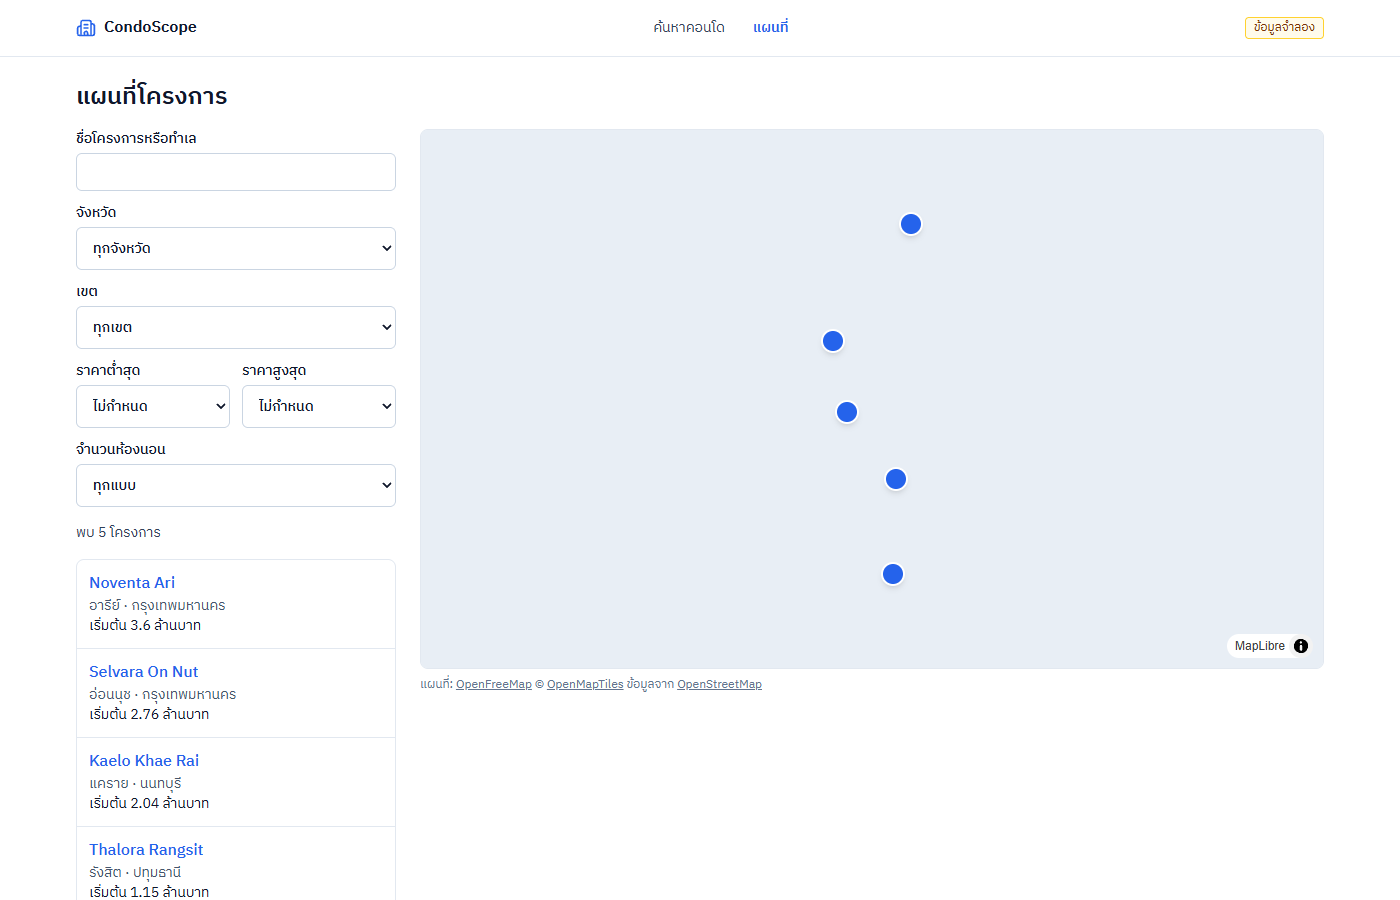
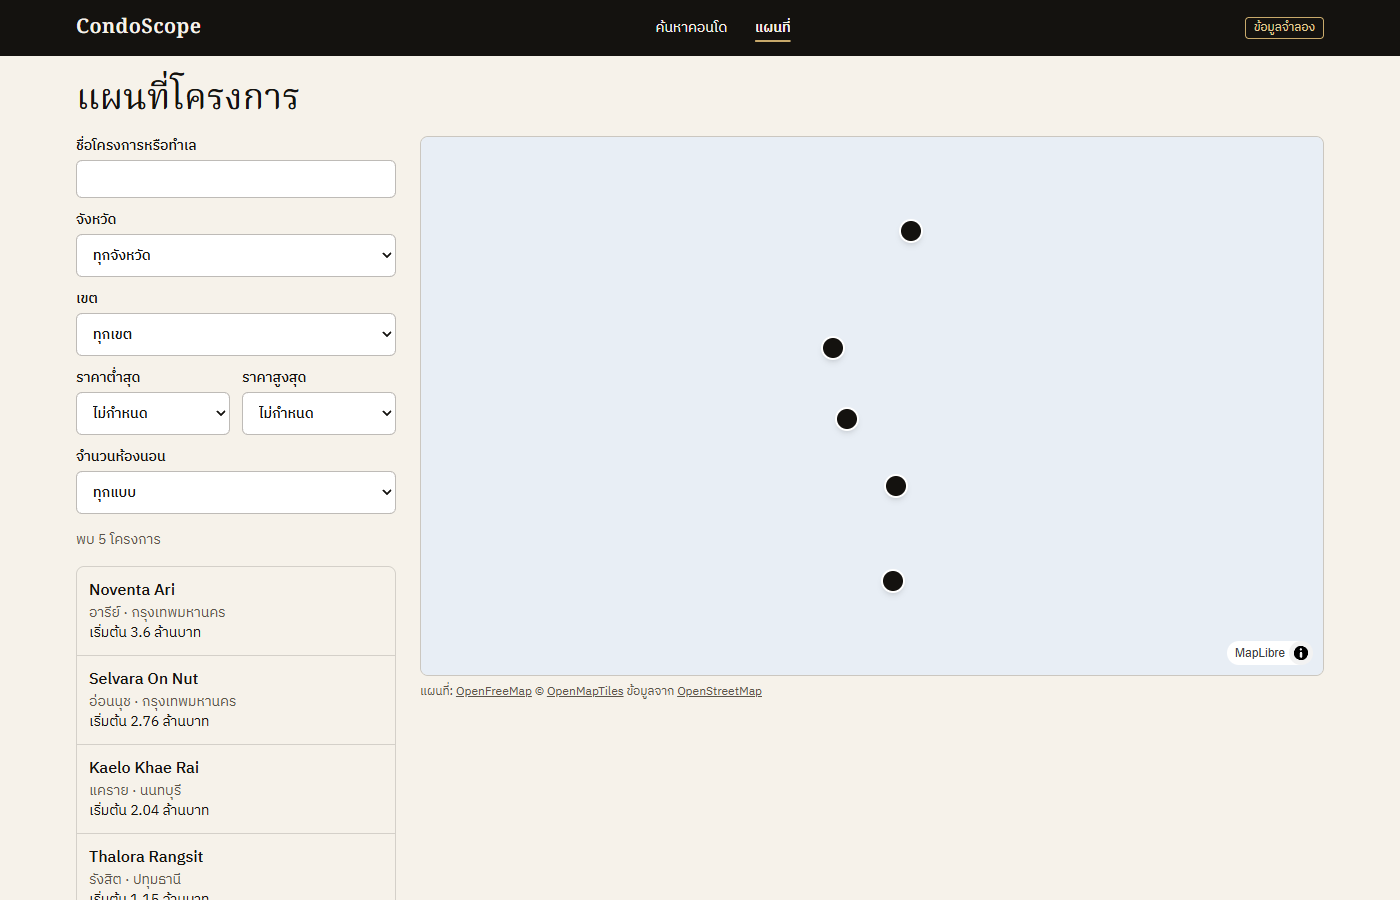
docs: status of plan 5 and the CI e2e work; fresh screenshots of the new look

diff --git a/apps/web/e2e/screenshots.spec.ts b/apps/web/e2e/screenshots.spec.ts
@@ -17,6 +17,7 @@ test('ภาพหน้าจอสำหรับ README (6 หน้า + ม
   await page.goto('');
   await expect(page.getByRole('heading', { level: 1 })).toBeVisible();
   await page.waitForLoadState('networkidle');
+  await page.waitForTimeout(5500); // the hero image settles for 5 s
   await shot(page, 'home');
 
   await page.goto('#/search');
@@ -27,7 +28,7 @@ test('ภาพหน้าจอสำหรับ README (6 หน้า + ม
   await page.goto('#/project/1');
   await expect(page.getByRole('heading', { level: 1 })).toBeVisible();
   await page.waitForLoadState('networkidle');
-  await page.waitForTimeout(800); // image fade-in
+  await page.waitForTimeout(5500); // the hero image settles for 5 s
   await shot(page, 'project');
 
   await page.goto('#/map');

diff --git a/CLAUDE.md b/CLAUDE.md
@@ -57,10 +57,13 @@
   - ยังไม่เริ่ม (ห้ามเริ่มเองจนกว่าผู้ใช้อนุญาต): งานเสริมประเภทห้องใหม่ (ด้านบน) และรอบ UX/UI ครั้งถัดไปหลังได้ผล QA จริง (Task 8 ของแผน 4)
 
 - ✅ **แผน 4 merge เข้า `main` แล้ว (PR #4, 2026-11-11)**
-- ⚠ **CI e2e บน `main` ล้มเป็นพักๆ หลัง merge PR #3 และ #4** (ขั้น "เปิดหน้าห้อง `/unit/:id`" รอ h1 ไม่เจอใน 15 วินาที; e2e รันเฉพาะบน `main`/มือ จึงไม่เคยเห็นบน branch) · วันที่ 2026-11-12 รัน `workflow_dispatch` บน `fix/ci-e2e` ผ่าน 41/41 โค้ดเดียวกัน = ไม่แน่นอน ยังไม่รู้สาเหตุ · **PR #5 (`fix/ci-e2e`, ยังไม่ merge)** เพิ่ม trace/screenshot ของ test ที่ล้มเป็น artifact `e2e-failures` (และลงทะเบียน `actions/upload-artifact@v7` ใน `repo.test.ts`) และสั่งรันมืออีก 2 รอบ (run 43069143817, 43069151665) · ถ้าล้ม: โหลด artifact ดู trace ว่า `/api/units/…` ช้าหรือ URL เปลี่ยนตอนไหน แล้วแก้ที่ต้นเหตุ ห้ามแค่เพิ่ม timeout/skip
-- 🚧 **แผน 5 (หน้าตาคอนโดหรู) ค้างบน branch `feat/plan-5`** (`docs/plans/2026-11-11-plan-5-luxury-look.md`; ผู้ใช้อนุมัติ 2026-11-11: ใช้สี/ฟอนต์ตามที่เสนอ + prompt ภาพต้องห้ามตึกเหมือนจริง/โลโก้/ตัวหนังสือ/คนเห็นหน้า)
-  - ทำแล้ว: Task 1 (token สี + ฟอนต์ Noto Serif Thai + `theme.test.ts`), Task 2 (Navbar/Footer หมึก), Task 3 (`useReveal`), Task 4 ส่วนใหญ่ (`HeroImage`, Hero เต็มจอ + แถบค้นหา + `<details>` ตัวกรองเพิ่มเติม, HomePage, test หน้าแรก, e2e จอ 390/320 และภาพ Hero โหลดไม่ได้) · ภาพใหม่ 6 ไฟล์แปลงแล้ว: `public/images/projects/<slug>-hero.webp` (1376 กว้าง ไม่ขยาย) + `-hero-sm.webp` (960) และ `public/images/home-hero.webp`/`-sm.webp` (ยังไม่ได้ใช้ใน Hero: ตอนนี้ Hero ใช้ภาพโครงการแนะนำ ให้ตัดสินใจว่าจะใช้ `home-hero` แทนไหม)
-  - ⚠ **ยังไม่เสร็จ/ยังแก้ไม่ได้:** e2e axe (`e2e/journeys.spec.ts:103`) ล้ม 3 หน้า `#/project/1`, `#/unit/1`, `#/map` หลังเปลี่ยนสี (ยังไม่ได้ดูสาเหตุ; สงสัยคลาสสีเดิม blue/slate/amber ในหน้าเหล่านั้นบนพื้นงาช้าง ซึ่ง Task 5–7 จะแก้อยู่แล้ว) · ยังไม่ได้รัน e2e รอบเต็มและ `check:bundles` หลัง Task 4 เสร็จ (build ผ่านก่อนหน้า) · **ยังไม่ทำ Task 5–9** (การ์ด/ค้นหา, หน้าโครงการ, หน้าห้อง, Explorer เข้าชุด, ตรวจรวม/เอกสาร) และ Task 10 ส่วนถ่ายภาพหน้าจอ · ห้ามเปิด PR จนกว่าครบและ e2e ผ่าน (ผู้ใช้สั่ง push + เปิด PR ด้วย gh ห้าม merge)
+- ⚠ **CI e2e บน `main` ล้ม (ยังไม่ได้ยืนยันว่าแก้ได้)** — PR #5 merge แล้ว (เพิ่ม artifact `e2e-failures`) แต่ main ยังล้มอีก (run 43275955411: explorer-a11y:32, explorer:80, explorer:169, journeys:11) · **PR #6 (`fix/e2e-slow-frames`, เปิดอยู่ ยังไม่ merge, ห้าม merge เอง)** ให้ CI รัน e2e ใน PR ด้วย (`ci.yml`: `github.event_name != 'push' || main`) + helper `untilResponsive` ใน e2e + แก้ที่แอป
+  - หลักฐานจาก trace: หลังกด/Enter เปิดหน้าห้อง `/api/units/…` ถูกเรียกช้า ~22 วินาที, คลิกสลับ 3D↔2D ใช้ 26–28 วินาที, ทั้งที่ปุ่มลูกศร/Esc ตอบเร็ว · 3D วาดต่อเนื่องบน software WebGL ของเครื่อง CI 2 คอร์ (เฟรมละหลายวินาที)
+  - ความพยายามแก้ใน PR #6: (1) `SlowGuard` สลับไป quality ต่ำใน ~3 วินาที — **ไม่พอ** (CI ยังล้ม 3 รอบ) (2) ล่าสุด `frameloop="demand"` + `Pacer` (ถ้าเฟรมช้า >100 ms จะพักเท่าเวลาเฟรม ≤ 2 วินาที เพื่อไม่ให้ GPU process ค้างคิว) — **ยังไม่รู้ผล** CI รอบ pull_request + dispatch 2 รอบ (run 43287913553, 43287910191, 43287904245) ยังรันอยู่ตอนผู้ใช้สั่งหยุด · ถ้ายังล้ม: โหลด artifact `e2e-failures` (`gh run download <id> -n e2e-failures`) ดู trace ใหม่ · ข้อสงสัยที่ยังไม่พิสูจน์: GPU watchdog รีสตาร์ท GPU process หรือ CPU เต็มจน Node ของ Playwright ช้าด้วย · ทางเลือกถัดไป: ลดขนาด viewport/ภาพของ test 3D หรือให้ e2e เริ่มที่ quality ต่ำ · ห้ามแค่เพิ่ม timeout/skip (คำสั่งผู้ใช้)
+- 🚧 **แผน 5 (หน้าตาคอนโดหรู) ค้างบน branch `feat/plan-5`** (`docs/plans/2026-11-11-plan-5-luxury-look.md`; ผู้ใช้อนุมัติ 2026-11-11 ใช้สี/ฟอนต์ตามเสนอ) · **ยังไม่เปิด PR** (ผู้ใช้สั่ง: เปิดเมื่อ test ผ่านครบ ห้าม merge)
+  - ทำแล้ว (commit/push แล้ว): Task 1–4 (token สี, Noto Serif Thai, Navbar/Footer หมึก, `useReveal`, Hero เต็มจอใช้ภาพ `home-hero` + ช่องค้นหา + `<details>` ตัวกรองเพิ่มเติม), Task 5 (การ์ดไร้กรอบ + หน้าค้นหา), Task 6 (หน้าโครงการ Hero ใหญ่ + CTA ก่อนเนื้อหา), Task 7 (หน้าห้อง), Task 8 (Explorer ใช้สีหมึก/แชมเปญ ผ่าน `glass.ts`), แทนที่คลาส slate/blue เดิมด้วย token ทั้งเว็บ, ภาพ 6 ไฟล์แปลงแล้ว (1376/960, ผู้ใช้ตรวจแล้วไม่มีคน/ตัวหนังสือ/ลายน้ำ) · **axe 6 หน้าผ่านแล้ว** (สาเหตุที่ล้มคือคลาสสีเดิมบนพื้นงาช้าง) · Vitest ผ่านทั้งหมด (88 + 210 + 228), `tsc` ผ่าน, bundle ผ่าน (entry ≈ 102 KB gzip รวมชิ้น start, Building3D 293.8 KB) · ภาพหน้าจอ 8 ภาพถ่ายใหม่แล้ว (`npm run screenshots` ผ่าน) แต่ **ผมยังไม่ได้ดูภาพ**
+  - branch นี้ merge `fix/e2e-slow-frames` (PR #6) เข้ามาแล้วเพื่อให้ e2e ของ 3D เสถียรขึ้น
+  - ⚠ **ยังไม่เสร็จ:** (1) **ดูภาพหน้าจอใหม่ใน `docs/screenshots/` ที่ 1400×900/1024×700/390×844** ว่าไม่ล้น/อ่านออก (2) รัน e2e รอบเต็ม `npm run e2e -- --reporter=list` (ใช้เวลานานบน Windows) ยังไม่ได้รัน (3) เอกสาร: README (ฟีเจอร์/ภาพ), `docs/architecture.md` หัวข้อ "ภาษาภาพ" (token, ฟอนต์, ภาพ Hero ตามชื่อไฟล์, ห้ามแชมเปญเป็นตัวอักษรบนงาช้าง), CLAUDE.md (4) แจ้งผู้ใช้ test case QA/BA ที่อาจล้าสมัย: หน้าแรก (Hero ใหม่, เขต/ราคาต่ำสุดอยู่ใน "ตัวกรองเพิ่มเติม"), การ์ดและหน้าค้นหา, หน้าโครงการ (ลำดับองค์ประกอบ), contrast, `user-flow.md` (5) แล้วค่อยเปิด PR ด้วย gh (ห้าม merge) · แผนข้อ 5 ของผู้ใช้ (ยืนยันสเปกข้อ 8.1) ยังไม่ได้ทำ
 - 📝 **แผน 6 (scroll storytelling + View Transitions) เขียนแล้ว รอผู้ใช้อนุมัติ** (`docs/plans/2026-11-12-plan-6-scroll-story.md`; ห้ามเขียนโค้ด) · สรุป: เขียนตัวขับการเลื่อนเอง (GSAP+ScrollTrigger 45 KB gzip ดัน entry เกินเพดาน, Lenis จี้การเลื่อน) · 3 tier: 3D สด / ภาพนิ่ง 4 ภาพ / เนื้อหานิ่งเมื่อลดการเคลื่อนไหว · ต้องรอแผน 5 merge ก่อน · ขอผู้ใช้ยืนยันการเพิ่มประโยคในสเปกข้อ 8.1 (ผมไม่แก้เอง)
 
 ## กฎที่ห้ามฝ่า
